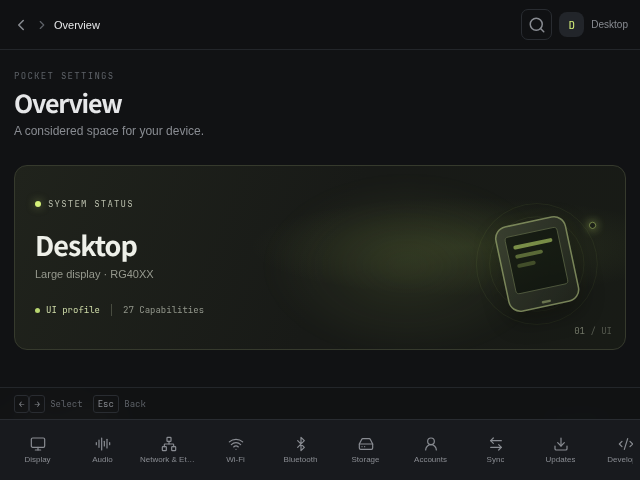
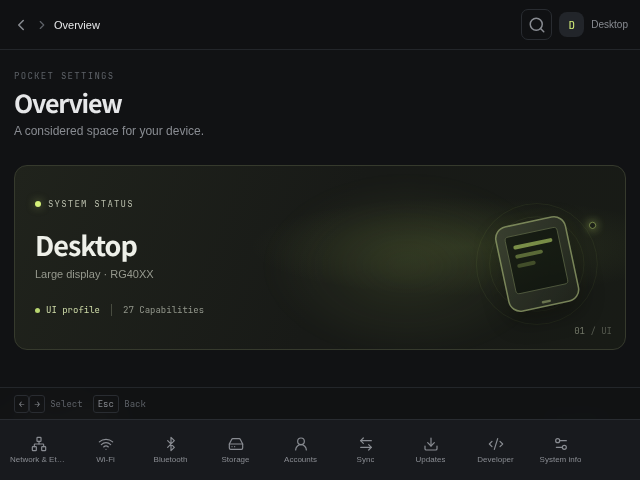
fix: gate navigation strictly by capability
Display/Audio/Network/Wi-Fi/Bluetooth pages were unconditionally added,
so a fixture without Display still showed it. Navigation now follows
capability availability, with a browser smoke regression check.
Screenshots regenerated (28 files, 28 unique digests).

diff --git a/apps/pocket-settings/frontend/src/App.tsx b/apps/pocket-settings/frontend/src/App.tsx
@@ -340,9 +340,10 @@ export function App() {
     const listed = categories.map(item => item.id).filter(id => domains.includes(id as Domain)) as Domain[];
     const candidates = [...new Set([...domains, ...listed])];
     const pageIds = candidates.filter(id => providerDomains.includes(id) || capabilityFor(id)?.available !== false);
-    const ordered: Page[] = ['home', 'display', 'audio', 'network'];
-    if (wifiCapability?.available !== false) ordered.push('wifi');
-    if (bluetoothCapability?.available) ordered.push('bluetooth');
+    const ordered: Page[] = ['home'];
+    for (const id of ['display', 'audio', 'network'] as Domain[]) if (pageIds.includes(id)) ordered.push(id);
+    if (wifiCapability?.available === true && pageIds.includes('network')) ordered.push('wifi');
+    if (bluetoothCapability?.available === true) ordered.push('bluetooth');
     for (const id of ['remote', 'storage', 'accounts', 'sync', 'updates', 'power', 'developer', 'system'] as Domain[]) if (pageIds.includes(id)) ordered.push(id);
     ordered.push('services');
     return ordered;

diff --git a/apps/pocket-settings/docs/SCREENSHOTS.md b/apps/pocket-settings/docs/SCREENSHOTS.md
@@ -16,21 +16,21 @@ presentation metadata — no physical capability or service state is implied.
 | File | Dimensions | SHA-256 |
 |---|---|---|
[26 lines of base64/hex data omitted]
@@ -42,7 +42,7 @@ presentation metadata — no physical capability or service state is implied.
[5 lines of base64/hex data omitted]
 
 
 ## Coverage
